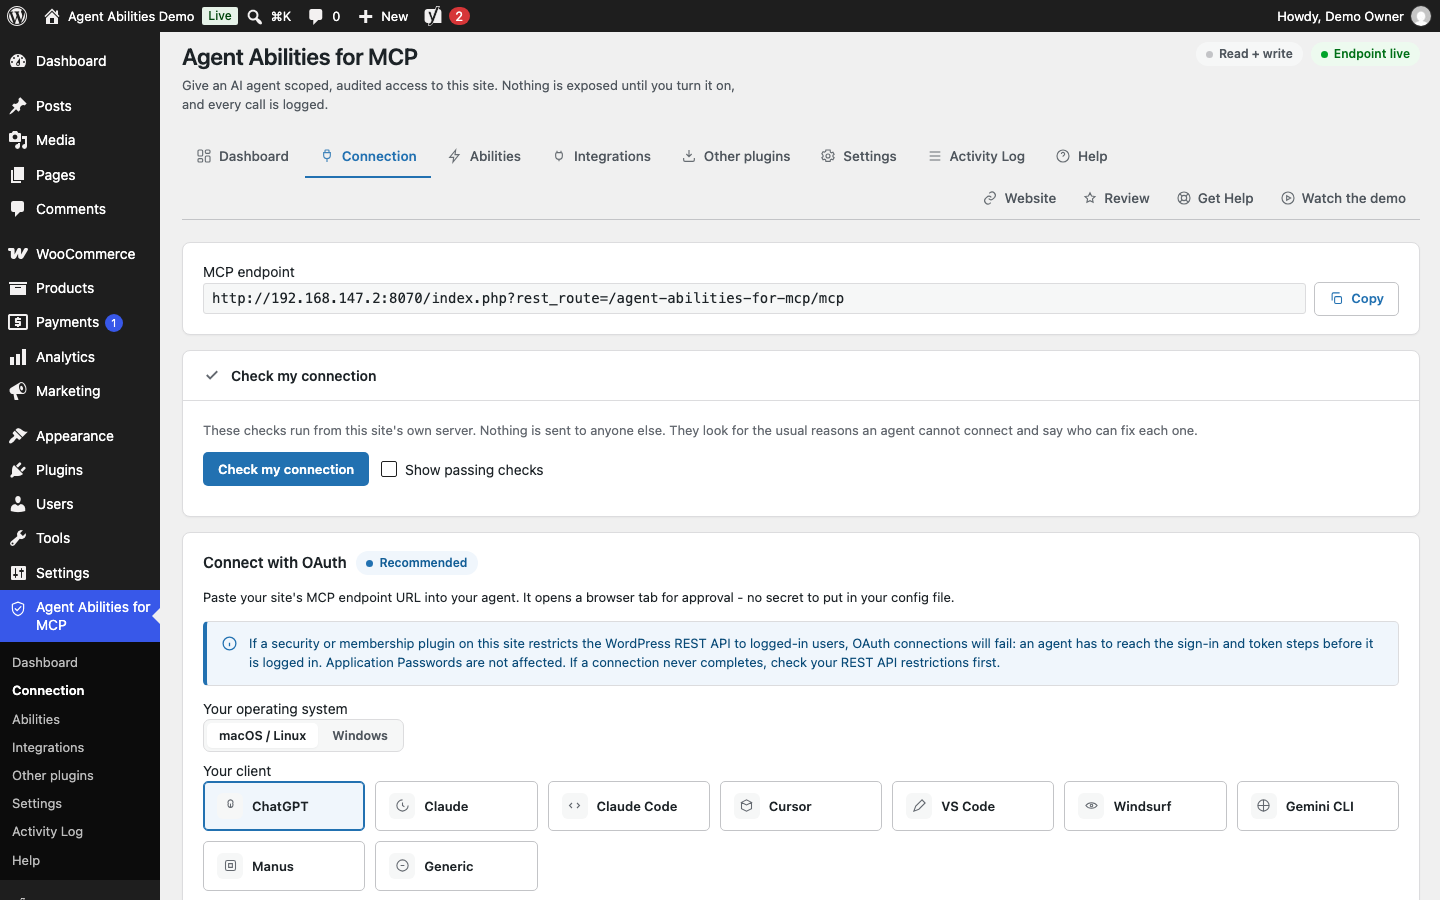
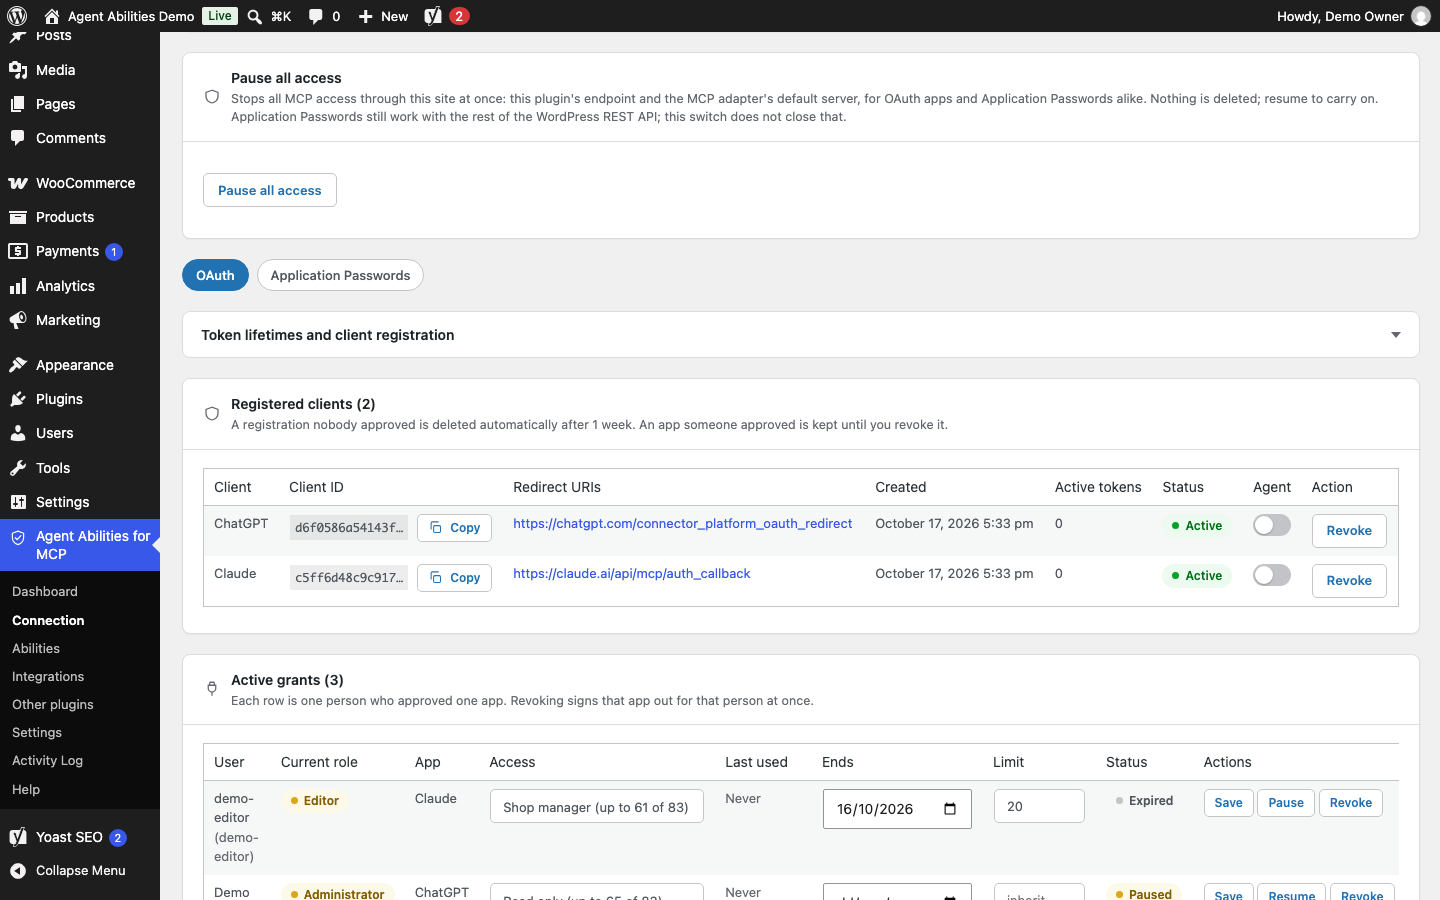
Retake the Connection screenshot and add two for the new controls
Screenshot 8 now opens at Pause all access and the OAuth and Application Passwords tabs, 15 shows the active grants with their access, last use, end date, limit and status, and 16 the agent user's Application Passwords. The demo seed adds the grants and the password they show.

diff --git a/bin/screenshots/seed-demo.php b/bin/screenshots/seed-demo.php
@@ -64,6 +64,39 @@ $gpt       = aafm_oauth_register_client( array( 'redirect_uris' => array( 'https
 $claude_id = is_array( $claude ) ? $claude['client_id'] : '';
 $gpt_id    = is_array( $gpt ) ? $gpt['client_id'] : '';
 
+// Grants and an agent user's Application Password (1.10.0): one active and recently used, one paused,
+// one expired, each with its own access preset. Demo users only; 203.0.113.0/24 is a documentation range.
+if ( function_exists( 'aafm_oauth_grant_update' ) ) {
+	$editor = wp_insert_user( array( 'user_login' => 'demo-editor', 'user_pass' => wp_generate_password(), 'role' => 'editor', 'user_email' => 'editor@example.com' ) );
+	$editor = is_wp_error( $editor ) ? (int) username_exists( 'demo-editor' ) : $editor;
+	$grants = array(
+		array( 1, $claude_id, array( 'preset' => 'content_editor' ) ),
+		array( 1, $gpt_id, array( 'preset' => 'read_only', 'paused' => true ) ),
+		array( $editor, $claude_id, array( 'preset' => 'shop_manager', 'expires_at' => gmdate( 'Y-m-d H:i:s', time() - DAY_IN_SECONDS ), 'rate' => 20 ) ),
+	);
+	foreach ( $grants as $g ) {
+		aafm_oauth_record_consent( $g[0], $g[1] );
+		aafm_oauth_grant_update( $g[0], $g[1], $g[2] );
+	}
+	$wpdb->update( $wpdb->prefix . 'aafm_oauth_consents', array( 'last_used_at' => gmdate( 'Y-m-d H:i:s', time() - 25 * MINUTE_IN_SECONDS ), 'last_used_ip' => '203.0.113.24' ), array( 'wp_user_id' => 1, 'client_id' => $claude_id ) );
+
+	$agent = wp_insert_user( array( 'user_login' => 'ai-agent', 'user_pass' => wp_generate_password(), 'role' => 'subscriber', 'user_email' => 'agent@example.com' ) );
+	if ( ! is_wp_error( $agent ) ) {
+		update_user_meta( $agent, aafm_agent_user_marker_meta_key(), 1 );
+		$created = WP_Application_Passwords::create_new_application_password( $agent, array( 'name' => 'Claude Desktop' ) );
+		if ( ! is_wp_error( $created ) ) {
+			$items = WP_Application_Passwords::get_user_application_passwords( $agent );
+			foreach ( $items as &$item ) {
+				$item['created']   = time() - 3 * DAY_IN_SECONDS;
+				$item['last_used'] = time() - 2 * HOUR_IN_SECONDS;
+				$item['last_ip']   = '203.0.113.31';
+			}
+			unset( $item );
+			update_user_meta( $agent, WP_Application_Passwords::USERMETA_KEY_APPLICATION_PASSWORDS, $items );
+		}
+	}
+}
+
 // Site Brief (1.8.0).
 update_option( 'aafm_site_brief', "Use British spelling.\nNever change the pricing page.\nDrafts only on Fridays." );
 

diff --git a/bin/screenshots/README.md b/bin/screenshots/README.md
@@ -51,3 +51,7 @@ PNG, lowercase `screenshot-N.png`, 1440 x 900 at device scale factor 1, under 10
 Images 1 to 13 (the 1.8.0 set, taken 2026-10-15; 9 and 10 were retaken for 1.9.0, see below): the smoke gate's `--shots` site reached from the host over the container IP, Playwright 1.63.0, seeded run. Screenshot 1 used the `?aafm_shot=wizard` switch, 3 and 4 used `?aafm_shot=readonly`.
 
 For 1.9.0, images 9 and 10 were retaken and image 14 was added, all committed on 2026-10-16 and shot with `capture.mjs`. The routes are image 9 `tab=activity` (waits for the log table rows), image 10 `tab=dashboard`, and image 14 `tab=settings` scrolled to the Notifications card (`#aafm-notify-mode`). Image 14 was retaken on 2026-10-16 after a help line was added under the app trigger row; image 10 was re-shot the same day on the current code and matched what is committed, so it was left as it is. Image 9 was retaken on 2026-10-16 after the Search placeholder gained "app id" and the Connection column began showing the app id beside a name. The other images are still the 1.8.0 captures.
+
+For 1.10.0, image 8 was retaken and images 15 and 16 were added on 2026-10-17 with `capture.mjs`. All three are `tab=connection` scrolled to the cards: image 8 starts at the Pause all access card (`#aafm-card-pause-all`), image 15 at the Active grants card (`#aafm-card-grants`), and image 16 clicks the Application Passwords tab (`[data-conn-tab="app-passwords"]`) first. `seed-demo.php` seeds the three grants (active and recently used, paused, expired) and the `ai-agent` user's Application Password they show.
+
+`AAFM_SHOTS_OVERFLOW=1` makes `capture.mjs` also load every tab at 390 and 360 px wide and fail when the page scrolls sideways.
